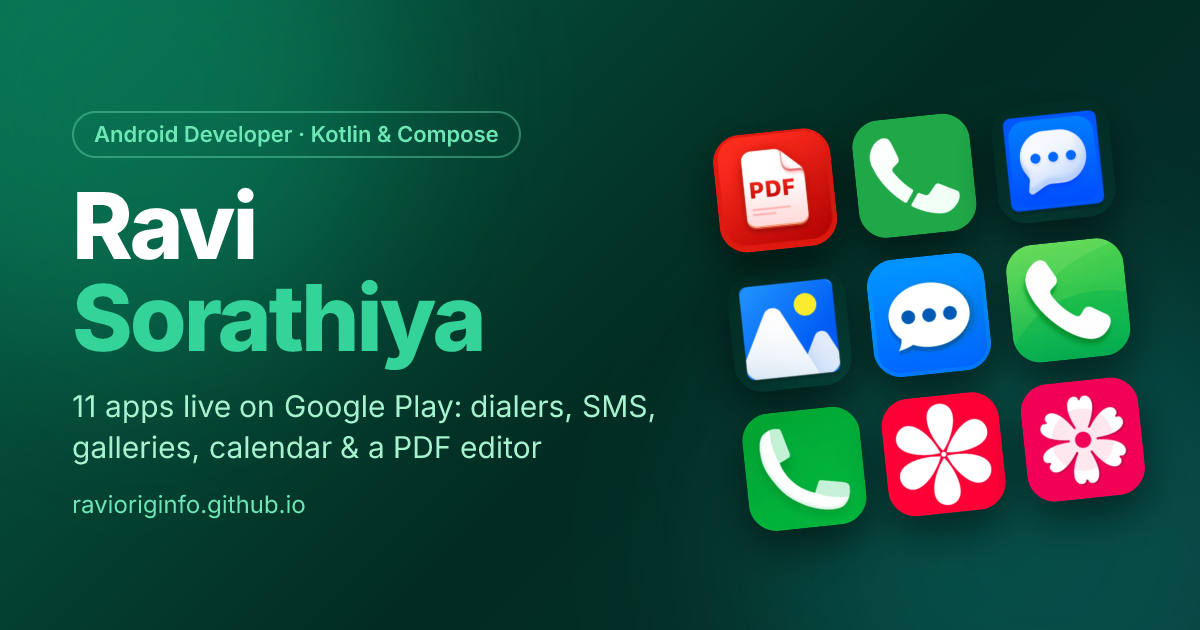
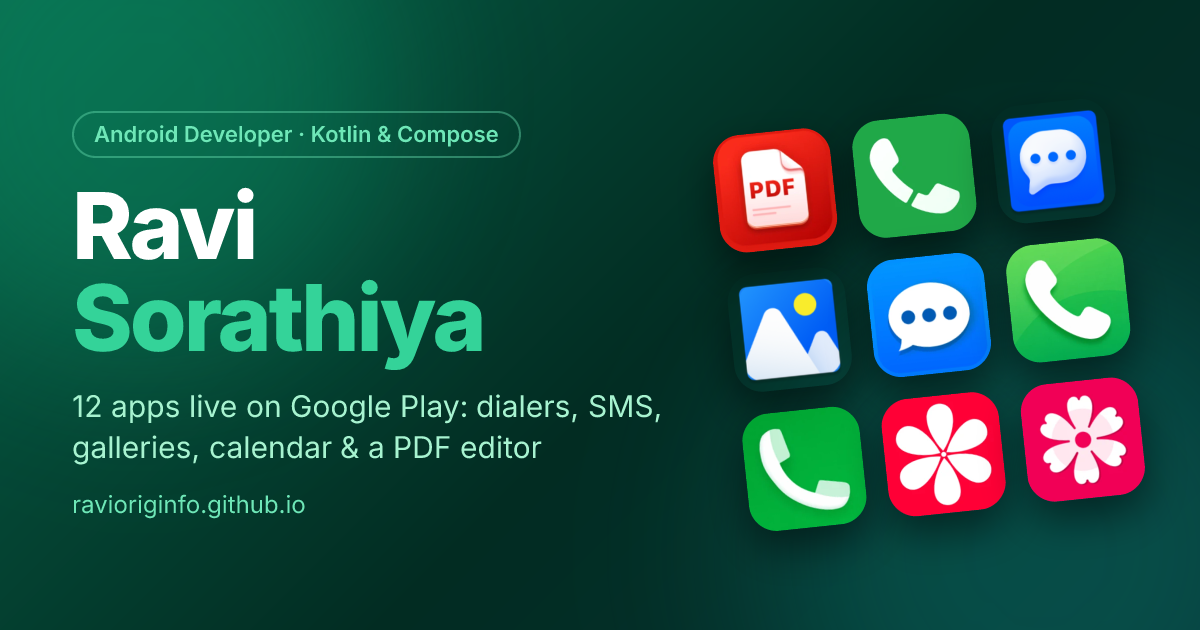
Add Noys - Music Video Maker (live on Google Play); live-app counts now computed

Changed region(s): [[0.0617, 0.6032, 0.555, 0.6937]]

diff --git a/src/data/portfolio.js b/src/data/portfolio.js
@@ -7,6 +7,8 @@
 export { SITE_URL } from './site.js'
 import { posts, projects } from '../content'
 
+const liveCount = projects.filter((p) => p.status === 'live').length
+
 export const profile = {
   name: 'Ravi Sorathiya',
   role: 'Android Developer',
@@ -19,7 +21,7 @@ export const profile = {
   availableForWork: true,
   avatar: '', // e.g. '/images/avatar.jpg' — leave empty to show initials
   shortBio:
-    'Android developer working in Kotlin and Jetpack Compose. I have shipped 11 apps to Google Play — from default dialers and SMS clients that take over core phone roles, to media galleries and productivity tools.',
+    `Android developer working in Kotlin and Jetpack Compose. I have shipped ${liveCount} apps to Google Play — from default dialers and SMS clients that take over core phone roles, to media galleries and productivity tools.`,
   bio: [
     'I build native Android apps end to end: architecture, UI, background work, monetization and release. Most of my work lives on Google Play, where apps have to be fast, stable and pass strict policy review.',
     'A lot of it sits close to the platform — replacement phone dialers built on InCallService and CallScreeningService, default SMS/MMS messengers, exact-alarm scheduling, home-screen widgets, and media apps that handle Android 14 partial photo access.',
@@ -72,6 +74,8 @@ export const statuses = {
 
 // Projects and blog posts live in Markdown under /content (see src/content/index.js).
 export { projects, posts, types, postTags, getProject, getPost } from '../content'
+
+export { liveCount }
 
 export const stats = [
   { label: 'Apps live on Google Play', value: projects.filter((p) => p.status === 'live').length },

diff --git a/src/views/AboutView.vue b/src/views/AboutView.vue
@@ -1,6 +1,6 @@
 <script setup>
 import { computed, ref } from 'vue'
-import { education, experience, profile, projects, skills } from '../data/portfolio'
+import { education, experience, liveCount, profile, projects, skills } from '../data/portfolio'
 import AppIcon from '../components/AppIcon.vue'
 import SectionHeading from '../components/SectionHeading.vue'
 import StatusBadge from '../components/StatusBadge.vue'
@@ -9,7 +9,7 @@ import { personSchema, useSeo } from '../composables/seo'
 
 useSeo({
   title: 'About — Android Developer (Kotlin, Jetpack Compose)',
-  description: `About ${profile.name}: Android developer skilled in Kotlin, Jetpack Compose, Hilt, Room, CameraX and Firebase, with 11 apps shipped to Google Play.`,
+  description: `About ${profile.name}: Android developer skilled in Kotlin, Jetpack Compose, Hilt, Room, CameraX and Firebase, with ${liveCount} apps shipped to Google Play.`,
   path: '/about',
   type: 'profile',
   jsonLd: [{ '@type': 'ProfilePage', mainEntity: personSchema }],

diff --git a/src/views/HomeView.vue b/src/views/HomeView.vue
@@ -1,6 +1,6 @@
 <script setup>
 import { computed } from 'vue'
-import { posts, profile, projects, skills, socials, stats } from '../data/portfolio'
+import { liveCount, posts, profile, projects, skills, socials, stats } from '../data/portfolio'
 import AppIcon from '../components/AppIcon.vue'
 import CountUp from '../components/CountUp.vue'
 import IconMarquee from '../components/IconMarquee.vue'
@@ -15,7 +15,7 @@ import { SITE_URL } from '../data/portfolio'
 
 useSeo({
   description:
-    'Ravi Sorathiya is an Android developer building Kotlin & Jetpack Compose apps — 11 apps live on Google Play including phone dialers, SMS messengers, galleries, a calendar and a PDF editor.',
+    `Ravi Sorathiya is an Android developer building Kotlin & Jetpack Compose apps — ${liveCount} apps live on Google Play including phone dialers, SMS messengers, galleries, a video maker and a PDF editor.`,
   jsonLd: [
     personSchema,
     {

diff --git a/content/projects/noys-music-video-maker.md b/content/projects/noys-music-video-maker.md
@@ -1,0 +1,66 @@
+---
+title: "Noys - Music Video Maker"
+type: "Gallery & Media"
+status: live
+featured: false
+order: 105
+icon: /images/apps/noys-music-video-maker.webp
+playPackage: vishow.musical.video.maker.editor
+summary: "Turn photos into music videos and reels with templates, particle effects, filters and music."
+features:
+  - "1000+ video templates, including festival, anniversary and Bollywood-style AI clips"
+  - "Photo slideshow maker: merge unlimited photos into one music video"
+  - "Particle effects synced to music beats (fire, laser, lightning, magic and more)"
+  - "Hundreds of filters and special effects"
+  - "Add background music from a built-in free library or your own songs"
+  - "Reels templates with one-tap sharing to social apps"
+  - "MP3 cutter to create and set custom ringtones"
+  - "HD wallpapers and daily quote wallpapers"
+highlights:
+  - "Template-driven video rendering: photos and music are composed into a ready-made animated template"
+  - "Beat-synced particle effects layered over the user's photos"
+  - "Downloadable content catalogue (templates, effects, ringtones, wallpapers) fetched on demand"
+  - "Exports finished videos in HD and shares them straight to social apps"
+tags: ["Android", "Video Editing", "Audio Editing", "Templates", "Content Delivery"]
+screenshots:
+  - src: /images/apps/noys-music-video-maker/1.webp
+    alt: "Noys - Music Video Maker screenshot 1"
+    width: 720
+    height: 1280
+  - src: /images/apps/noys-music-video-maker/2.webp
+    alt: "Noys - Music Video Maker screenshot 2"
+    width: 450
+    height: 800
+  - src: /images/apps/noys-music-video-maker/3.webp
+    alt: "Noys - Music Video Maker screenshot 3"
+    width: 720
+    height: 1280
+  - src: /images/apps/noys-music-video-maker/4.webp
+    alt: "Noys - Music Video Maker screenshot 4"
+    width: 720
+    height: 1280
+  - src: /images/apps/noys-music-video-maker/5.webp
+    alt: "Noys - Music Video Maker screenshot 5"
+    width: 720
+    height: 1280
+  - src: /images/apps/noys-music-video-maker/6.webp
+    alt: "Noys - Music Video Maker screenshot 6"
+    width: 720
+    height: 1280
+---
+
+## Overview
+
+**Noys** is a music video maker for creators and influencers: pick a template, add photos and a song, and the app turns them into a short music video or reel with transitions, effects and filters, ready to save in HD and share.
+
+## What it does
+
+- **Templates:** a large, regularly updated catalogue covering themes such as love, lyrics, birthday, festivals, beat, sad and happy, plus Bollywood-style AI clips.
+- **Effects:** particle effects that react to the music's beats, and hundreds of filters and special effects.
+- **Music:** a built-in free music library, or any song from the phone.
+- **Slideshows:** merge any number of photos into a single video without losing quality.
+- **Extras:** an MP3 cutter for custom ringtones and SMS tones, trending ringtones, and HD and quote wallpapers.
+
+## Notes
+
+One of my earlier apps, built and shipped to Google Play before my current projects. This page describes it as published on its store listing.

diff --git a/docs/PROJECTS.md b/docs/PROJECTS.md
@@ -39,10 +39,11 @@ _(empty)_
 | calendar-2026 | Calendar 2026 | live | Productivity | | com.calendar.sscalendar.holidaycalendar | `producation/CalenderUmbreltic/Callender-umbrellatac-V6` |
 | alarm-clock | Alarm Clock | live | Productivity | | com.alarmclock.simplealarm.alarmapp | `producation/Alram_Beatiful_Disater/1.5/Alarm Clock - Beautifuls Disaster` |
 | messenger-all-social | Messenger - All Social Apps | live | Social | | com.allmessages.messengerapp.allinonesocialmediaapps | `producation/Messenger_sc_29_12_2025` |
+| noys-music-video-maker | Noys - Music Video Maker | live | Gallery & Media | | vishow.musical.video.maker.editor | — (earlier app, source not in workspace; content from its Play listing) |
 | voice-recorder | Voice Recorder | completed | Productivity | | — | `development/completed/VoiceRecorder` |
 <!-- registry:end -->
 
-**Totals:** 13 apps: 11 live · 1 in progress · 1 completed.
+**Totals:** 14 apps: 12 live · 1 in progress · 1 completed.
 
 ---
 
@@ -65,6 +66,7 @@ Apps that were deliberately removed or skipped. Before adding a new project, che
 
 Newest first. One line per change to the project list.
 
+- **2026-10-02:** Added `noys-music-video-maker` (Noys - Music Video Maker, live). It's an earlier app with no local source, so its content comes from the owner's Google Play listing.
 - **2026-10-02:** Moved all apps to Markdown files in `content/projects/`, with case studies and Google Play screenshots.
 - **2026-10-02:** Removed `all-message-social`, `ravi-message`, `ravi-phone-call`, `ravi-gallery` (unpublished).
 - **2026-10-02:** Initial import: 11 Google Play apps + PDF Reader (in progress) + unpublished builds.

diff --git a/README.md b/README.md
@@ -6,7 +6,7 @@
 
 # Ravi Sorathiya — Portfolio
 
-**Android developer · Kotlin & Jetpack Compose · 11 apps live on Google Play**
+**Android developer · Kotlin & Jetpack Compose · 12 apps live on Google Play**
 
 ### 🌐 [ravioriginfo.github.io](https://ravioriginfo.github.io/)
 
@@ -48,7 +48,7 @@
 | <img src="public/images/apps/messages-compose.webp" width="48" /> | [**Messages**](https://ravioriginfo.github.io/projects/messages-compose) | Default SMS & MMS app built in Jetpack Compose | 🟢 [Google Play](https://play.google.com/store/apps/details?id=com.message.textmessenger.smsapp) |
 | <img src="public/images/apps/gallery-pro.webp" width="48" /> | [**Gallery - Photo Gallery**](https://ravioriginfo.github.io/projects/gallery-pro) | Compose gallery with timeline, editor & photo picker | 🟢 [Google Play](https://play.google.com/store/apps/details?id=com.gallery.picturegalleryapp.gallerypro) |
 
-➡ **[See all 13 apps →](https://ravioriginfo.github.io/projects)**
+➡ **[See all 14 apps →](https://ravioriginfo.github.io/projects)**
 
 ---
 
